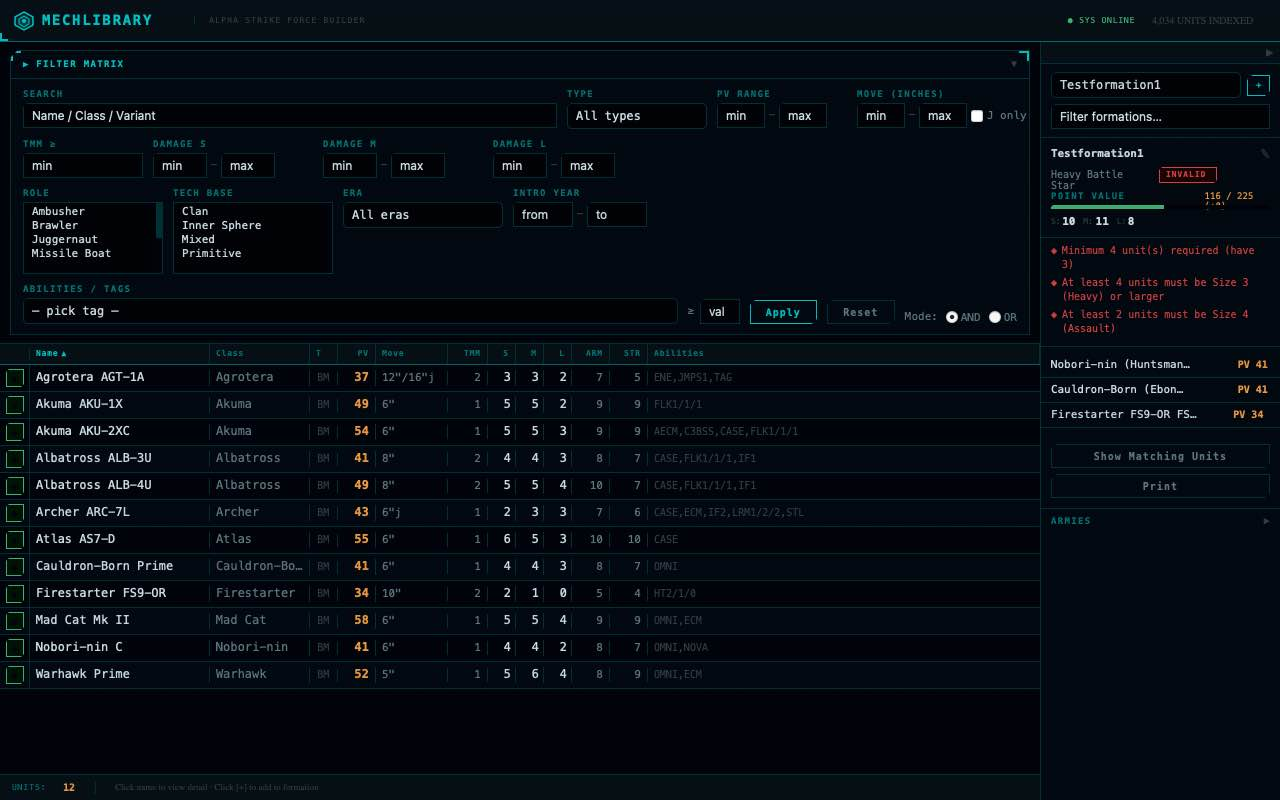
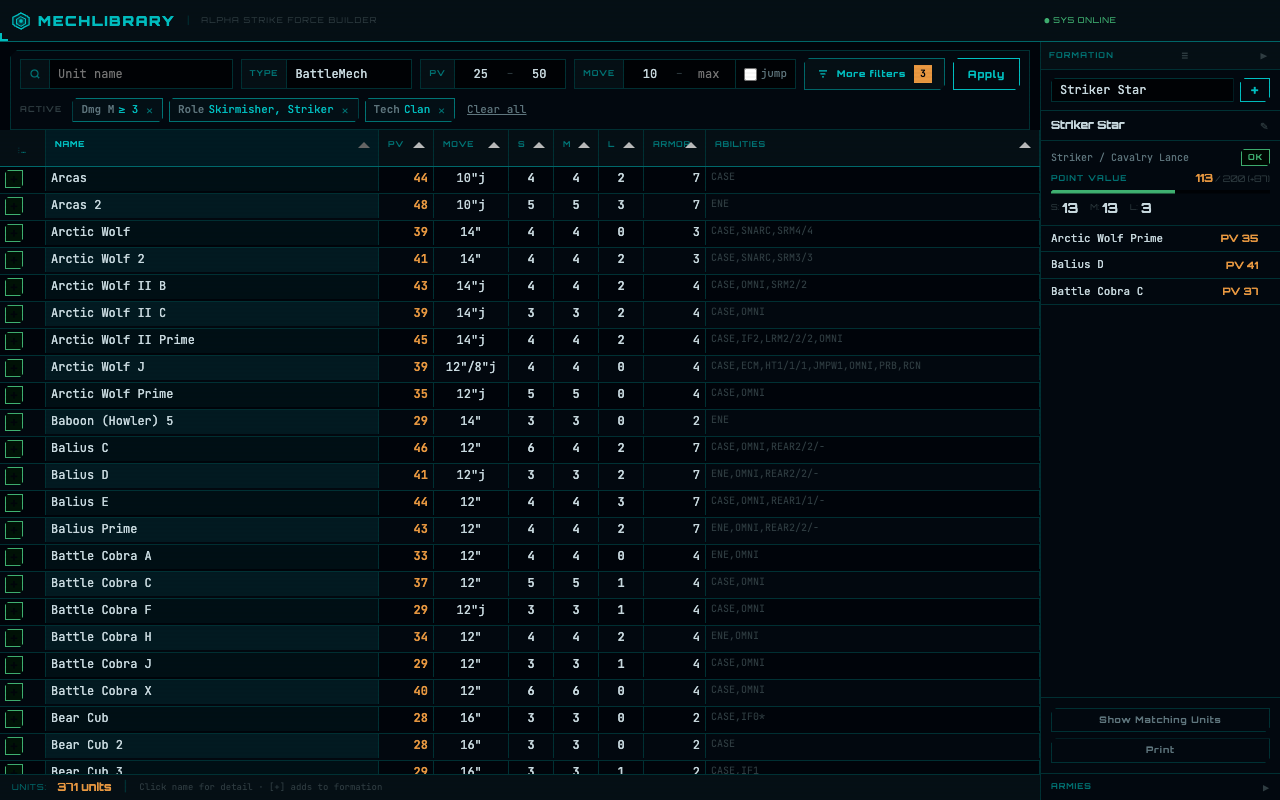
docs: update README screenshot for the new filter bar

diff --git a/README.md b/README.md
@@ -5,7 +5,7 @@ public unit data on the [Master Unit List](https://masterunitlist.battletech.com
 
 Built because the filters on MUL are not flexible enough for serious force composition.
 
-![Unit list with filter matrix and formation panel](docs/design/preview.png)
+![Unit list with filter bar and formation panel](docs/design/preview.png)
 
 ## Features
 
